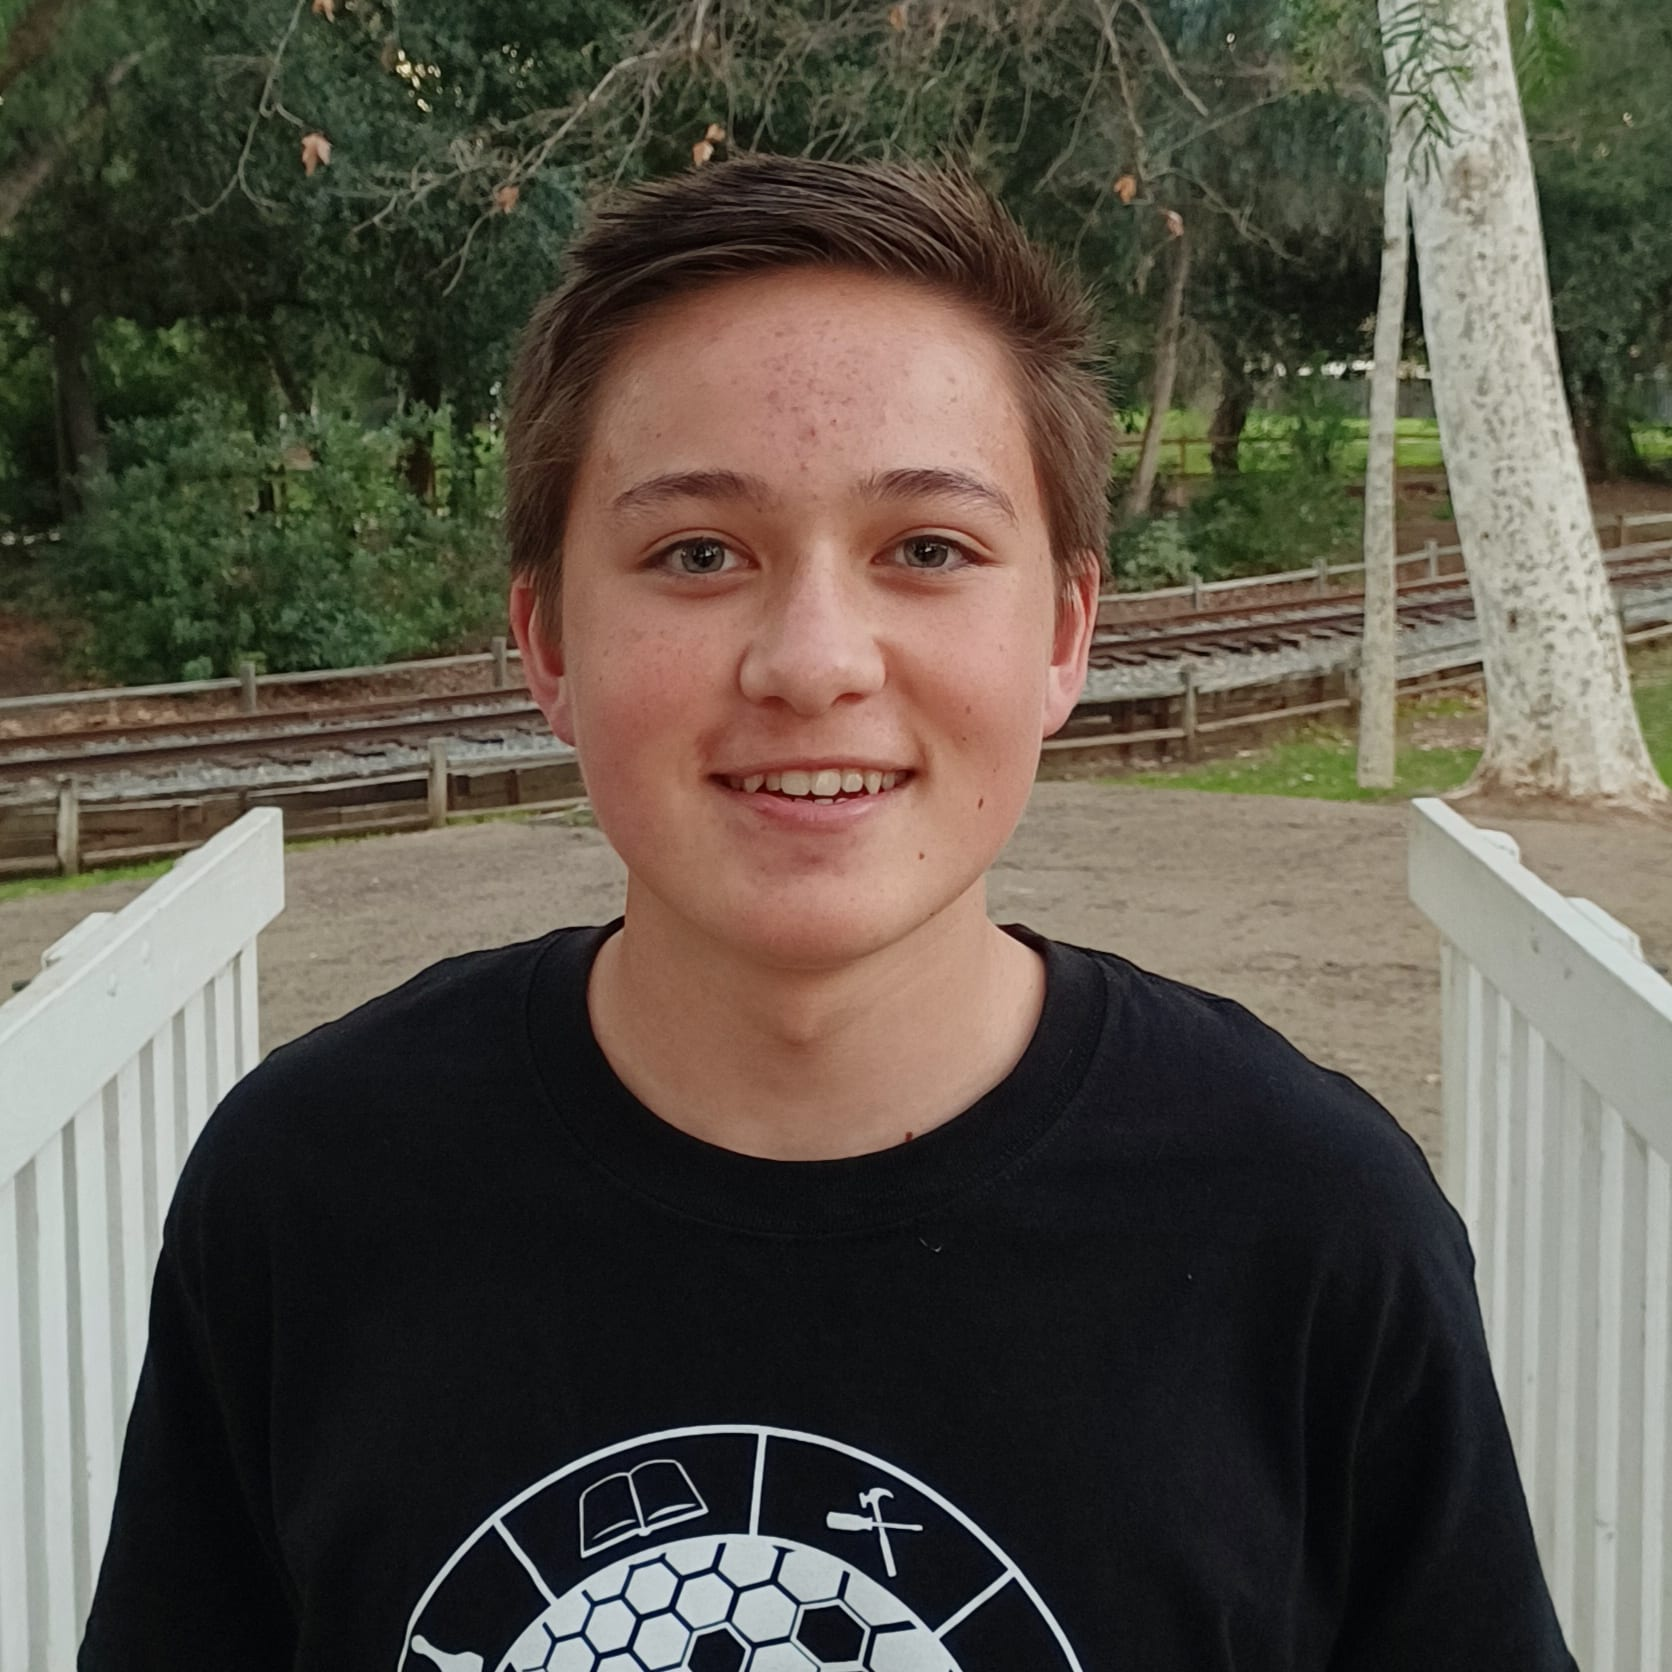
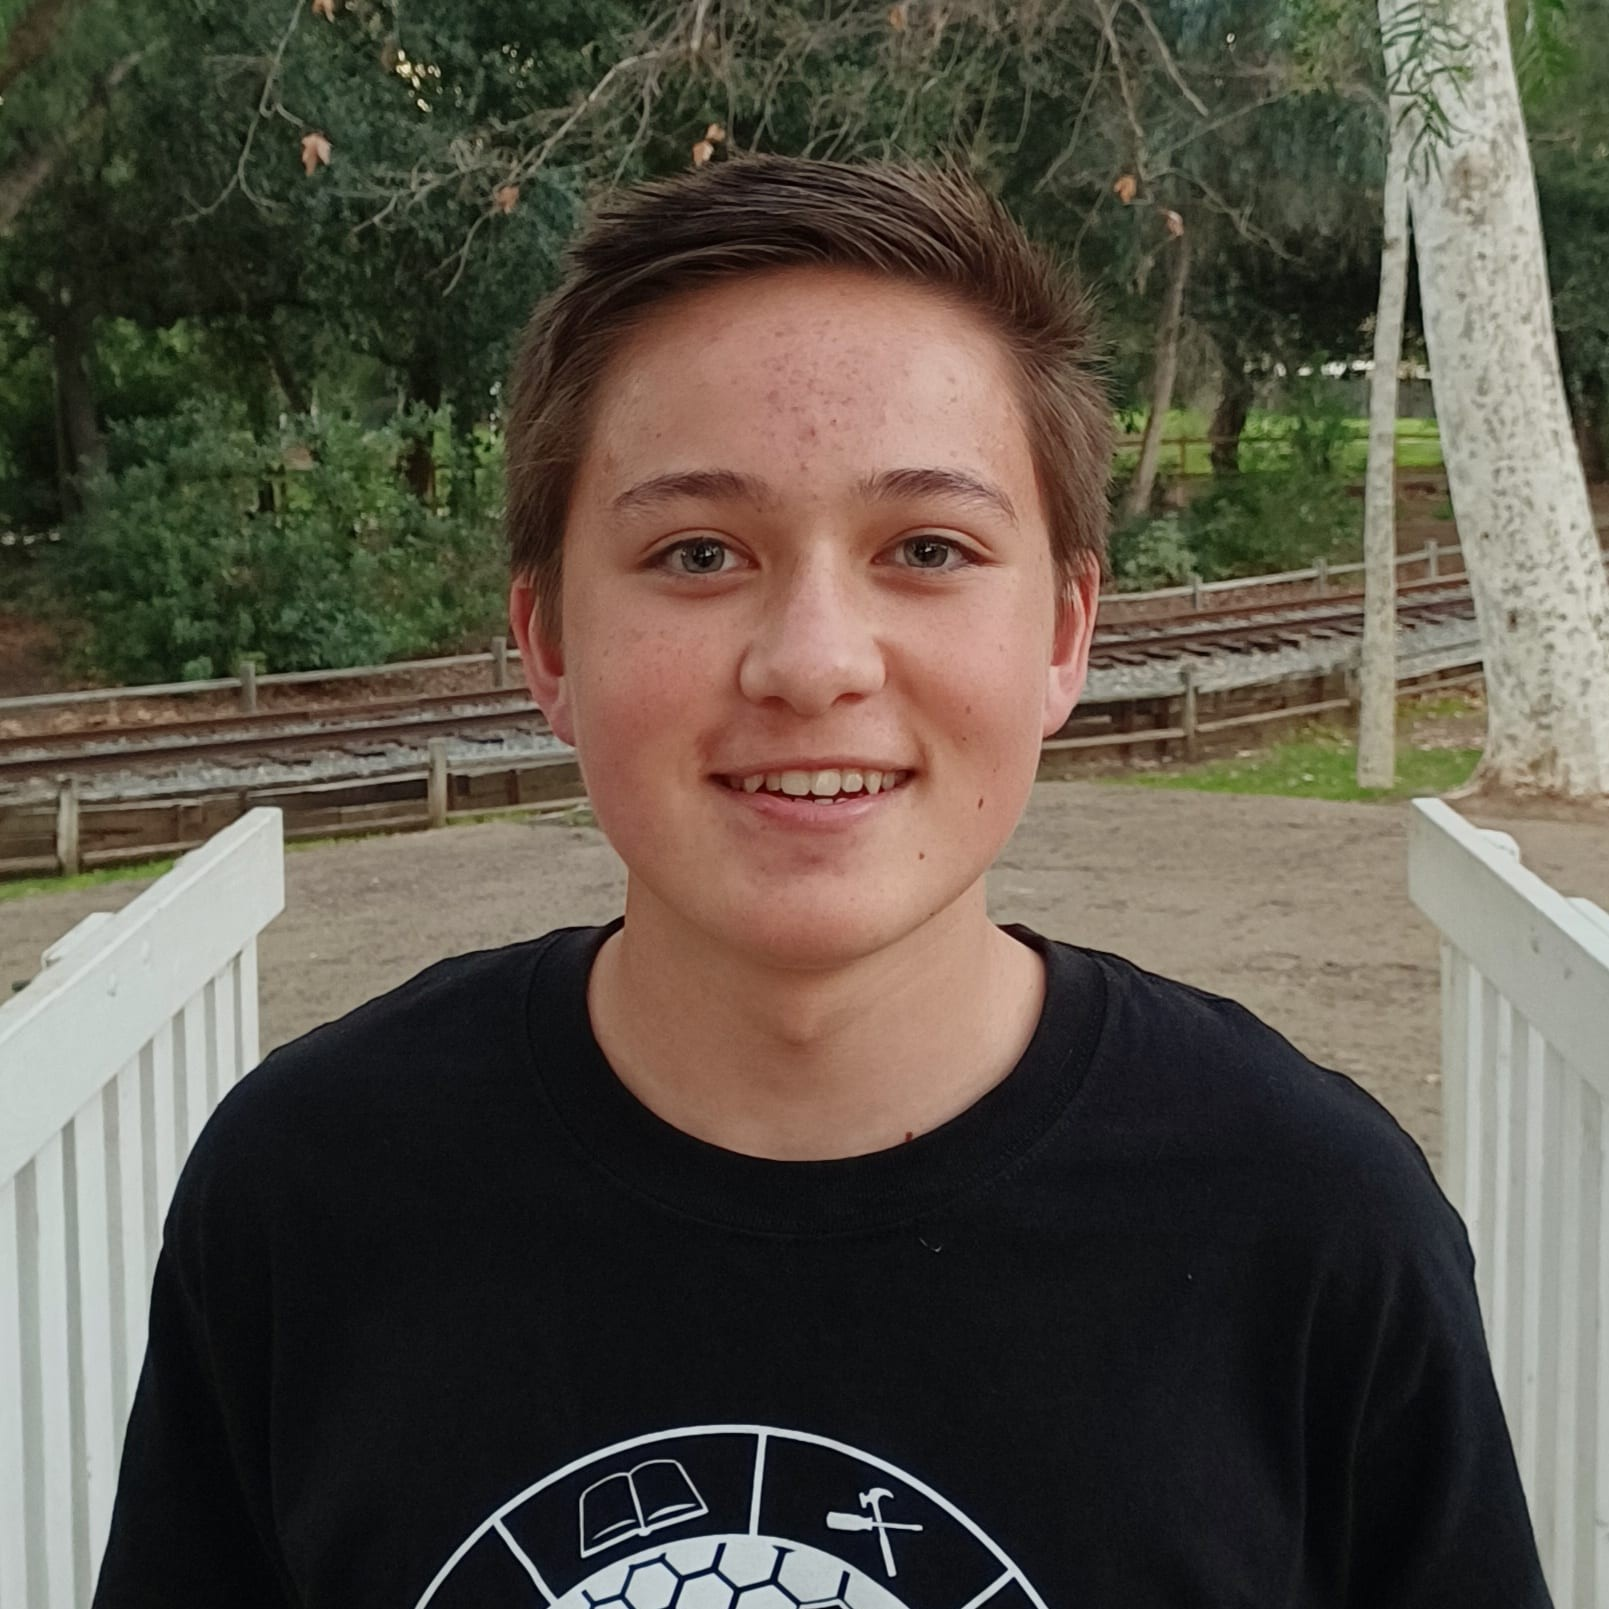
centered poway park image

diff --git a/src/app/page.tsx b/src/app/page.tsx
@@ -65,6 +65,8 @@ function HomeContent() {
     };
   }, [isMouseDown, isPointerDown]);
 
+  const isActive = isMouseDown || isPointerDown;
+
   return (
     <>
       <Head>
@@ -75,9 +77,25 @@ function HomeContent() {
           rel="stylesheet"
         />
       </Head>
+
       <div id="threeDContainer" className="absolute top-0 left-0 w-full h-full">
         <ThreeDScene />
       </div>
+
+
+      <motion.div
+        className="fixed top-4 right-4 bg-white/80 text-black px-4 py-2 rounded-lg shadow-lg flex items-center gap-2 text-[min(3vh,3vw)] font-semibold"
+        animate={!isActive ? "hidden" : "visible" }
+        variants={{
+          visible: { opacity: [1, 0.6, 1], transition: { duration: 1.5, repeat: Infinity } },
+          hidden: { opacity: 0, transition: { duration: 1.3 } }
+        }}
+        transition={{ duration: 1.5, repeat: Infinity }}
+      >
+        ☁ Cloud Drawing Mode Active
+      </motion.div>
+
+
       <motion.div
         ref={mainDivRef}
         className="absolute top-0 left-0 w-full h-full z-10 p-[4%]"
@@ -96,7 +114,6 @@ function HomeContent() {
           }
         }}
       >
-
         {/* Home */}
         <motion.div
           className="p-[3vh] content-normal gap-[0vh] h-[99vh] grid grid-cols-5 grid-rows-[1fr_1fr_2fr_2fr] select-none"
@@ -104,7 +121,7 @@ function HomeContent() {
           transition={{ duration: 0.9, ease: "easeInOut" }}
         >
           {/* Row 1: Nameplate */}
-          <div className="big-style h-0 text-white lexend text-[min(8vw,8vh)] col-start-1 col-end-2 row-start-1 row-end-2 z-13">
+          <div className="big-style h-0 text-white lexend text-[min(8vw,8vh)] col-start-5 col-end-6 row-start-1 row-end-2 z-13">
             <PointerSwipe />
           </div>
           <div className="big-style h-[var(--custom-top-height)] text-white lexend col-start-1 col-end-6 row-start-1 row-end-2">
@@ -145,7 +162,7 @@ function HomeContent() {
 
         {/* About View */}
         <motion.div
-          className="p-[6vh] content-normal gap-[0vh] h-[99vh] grid grid-cols-[1fr_8fr_1fr_8fr_1fr] grid-rows-[1fr_1fr_6fr_1fr_1fr] select-none"
+          className="p-[6vh] content-normal gap-[0vh] h-[99vh] grid grid-cols-[1fr_8fr_1fr_8fr_1fr] grid-rows-[1fr_1fr_6fr_1fr_1fr_2fr] select-none"
           initial={{ y: "150vh", opacity: 0 }}
           animate={{
             // y: !isInAboutView ? "150vh" : 0,
@@ -158,7 +175,7 @@ function HomeContent() {
           <div className="big-style col-start-1 col-end-6 row-start-1 row-end-2">
             <h1 className="text-[min(5vw,5vh)] text-[#000000] font-bold lexend text-center h-[5vh]">Brendan Aeria</h1>
           </div>
-          <div className="big-style col-start-1 col-end-6 row-start-2 row-end-3">
+          <div className="big-style col-start-1 col-end-6 row-start-2 row-end-3 h-[min(15vh,15vw)]">
             <SocialMediaButtons
               github="https://github.com/aeriab"
               linkedin="https://linkedin.com/in/brendan-aeria-7494a7218/"
@@ -172,7 +189,7 @@ function HomeContent() {
             <motion.img 
               src="https://aeriab.github.io/PowayPark_Profile_Pic.jpg" 
               alt="Picture" 
-              className="w-[min(30vw,30vh)] rounded-lg"
+              className="w-[min(30vw,30vh)] rounded-[min(100vh,100vw)]"
               initial={{ x: -50, opacity: 0 }}
               animate={{ x: 0, opacity: 1 }}
               transition={{ delay: 0.2, duration: 0.5 }}
@@ -184,17 +201,17 @@ function HomeContent() {
               animate={{ x: 0, opacity: 1 }}
               transition={{ delay: 0.3, duration: 0.5 }}
             >
-              <p className="text-[min(3.2vw,3.2vh)] text-[#000000] font-bold lexend">
+              <p className="text-[min(3.2vw,3.2vh)] text-[#000000] font-bold lexend leading-[min(3.8vw,3.8vh)]">
                 Computation and Systems Biology Undergraduate · UCLA class of 2027 <br />
               </p>
-              <p className="text-[min(1.6vw,1.6vh)] text-[#000000] lexend text-left mt-[3.0vh]">
+              <p className="text-[min(1.6vw,1.6vh)] text-[#000000] lexend text-left mt-[3.0vh] leading-[min(3.9vw,3.9vh)]">
                 As the research coordinator for CruX UCLA, I lead the development of Brain Computer Interface software and contribute to research publications on EEG/EMG transfer learning. My experience extends to game development, where I have won two university-wide game jams and serve as the Game Jam Officer for ACM Studio UCLA. Additionally, I have internship experience in AI content development and machine learning model engineering.
               </p>
             </motion.div>
           </div>
 
           <motion.div 
-            className="big-style col-start-1 col-end-6 row-start-4 row-end-5"
+            className="big-style col-start-1 col-end-6 row-start-5 row-end-6"
             initial={{ y: 20, opacity: 0 }}
             animate={{ y: 0, opacity: 1 }}
             transition={{ delay: 0.4, duration: 0.5 }}
